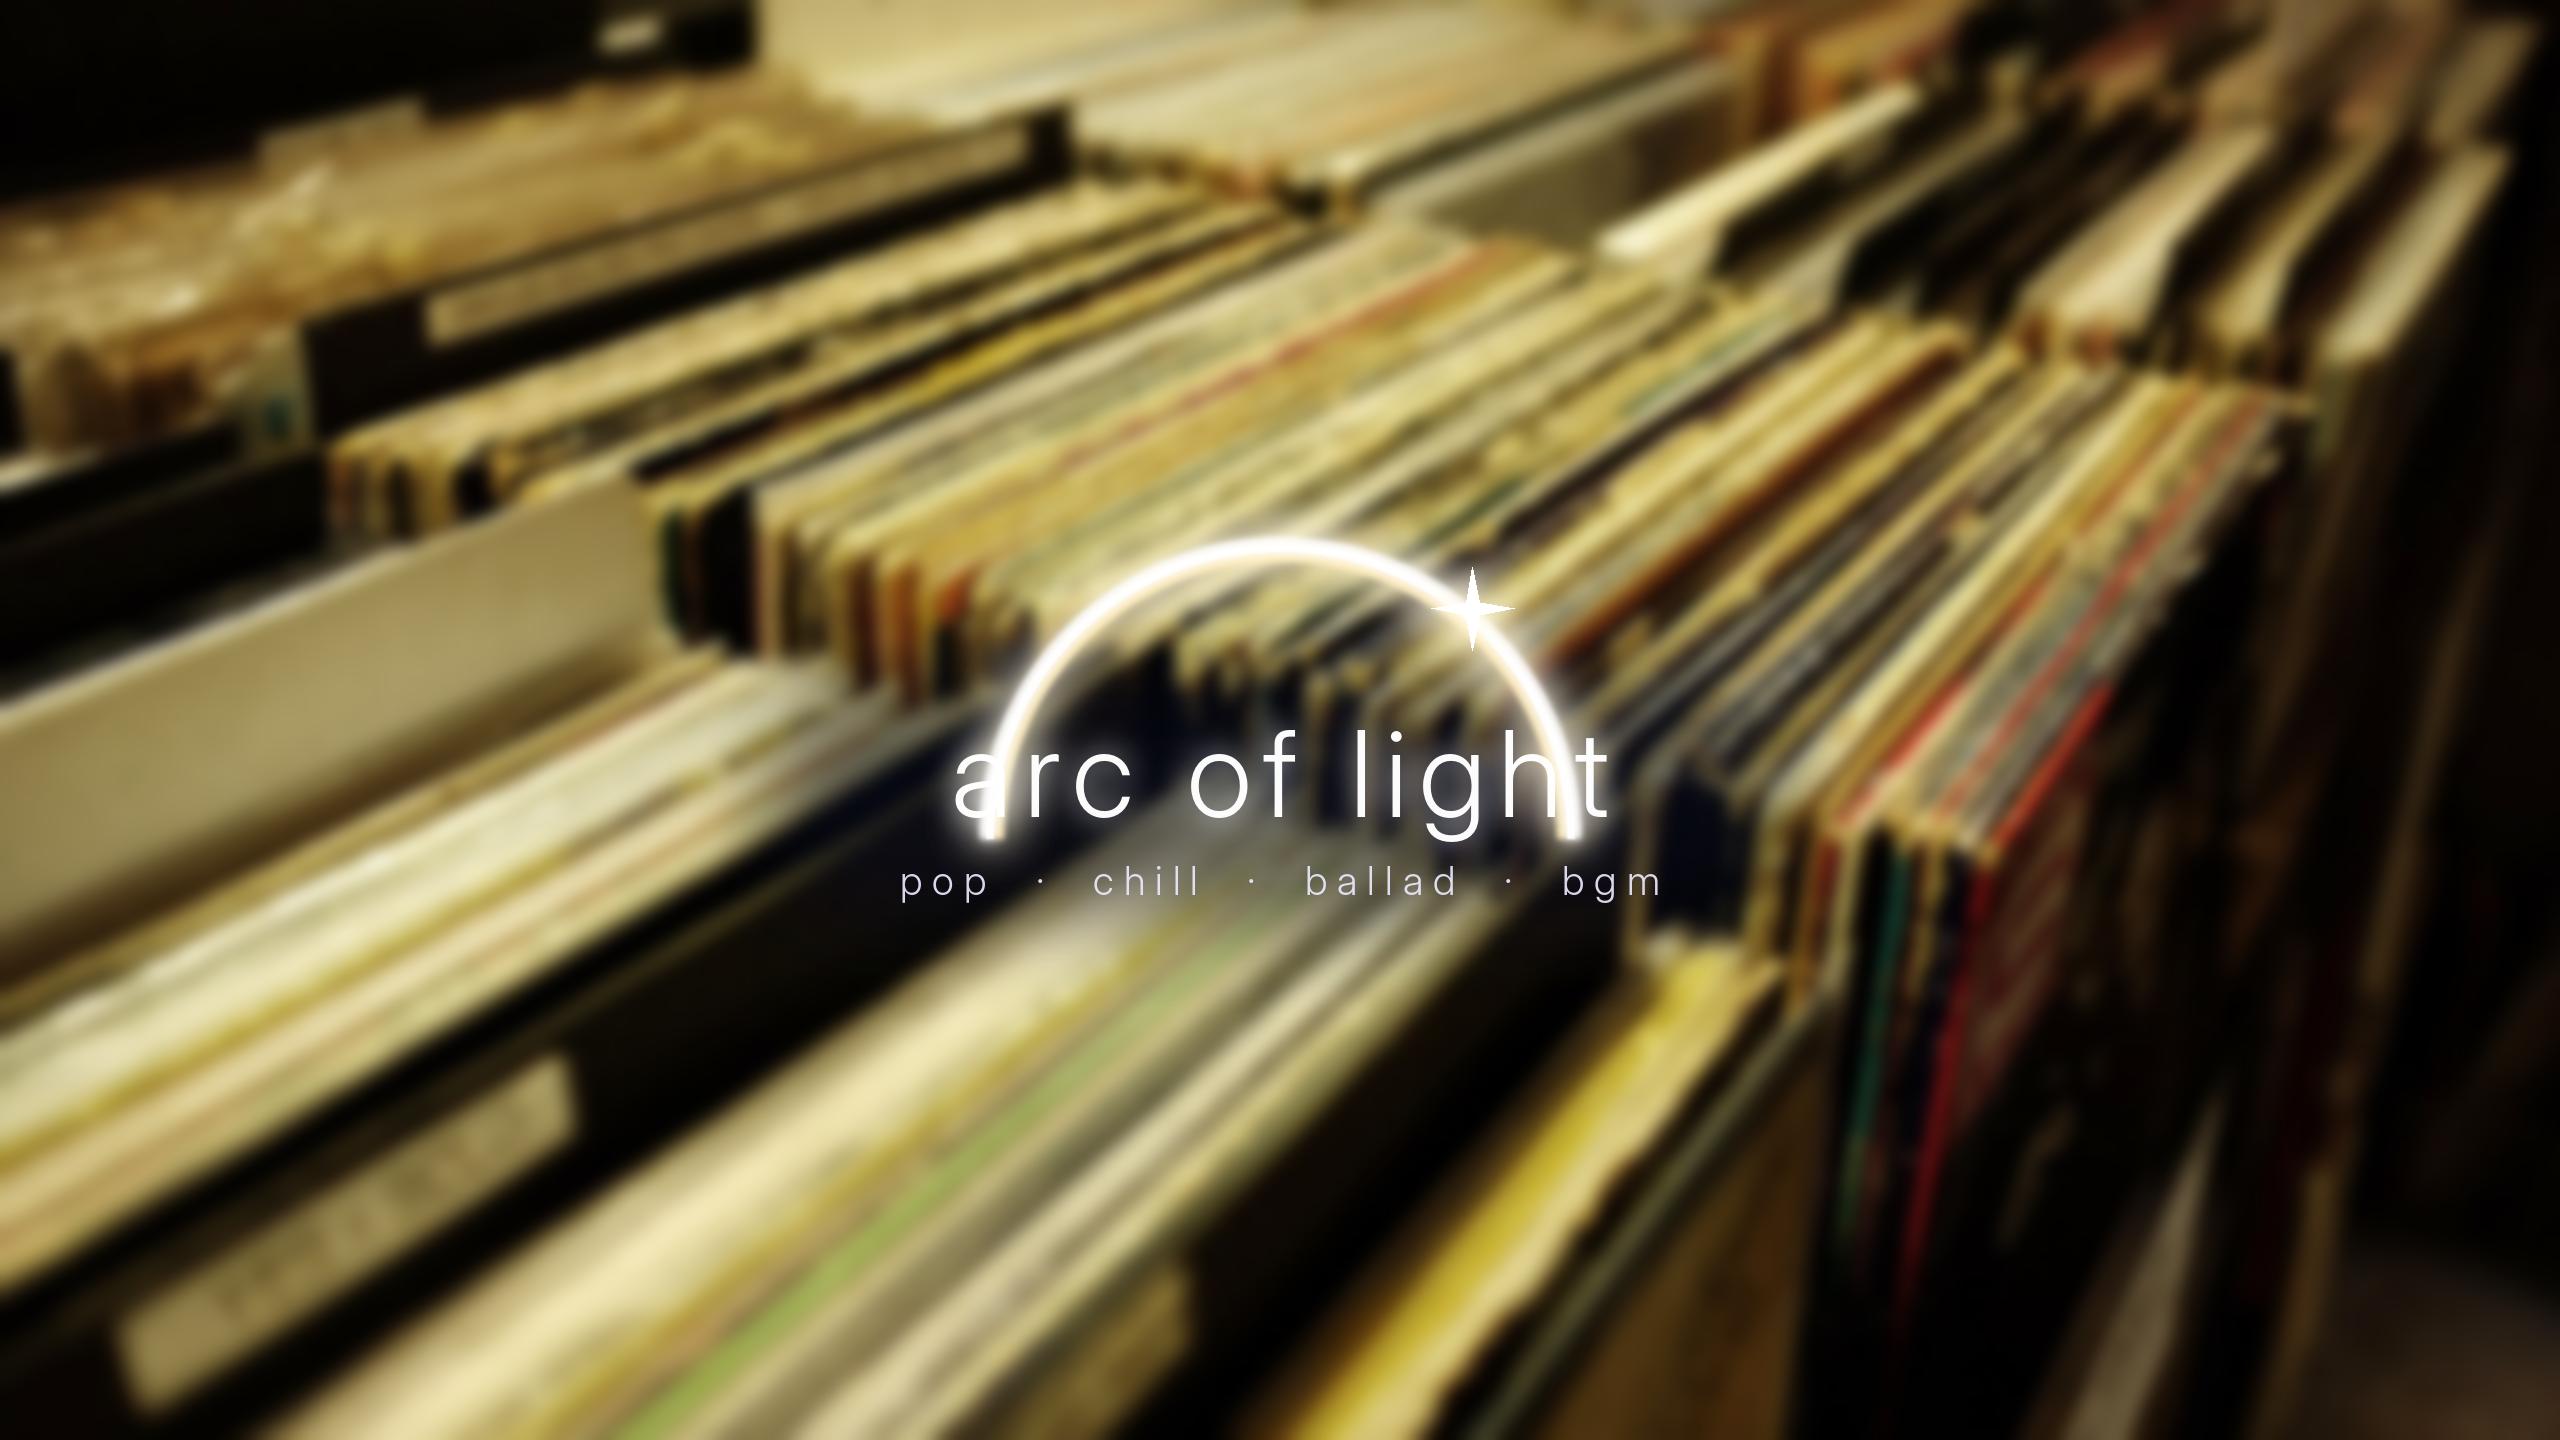
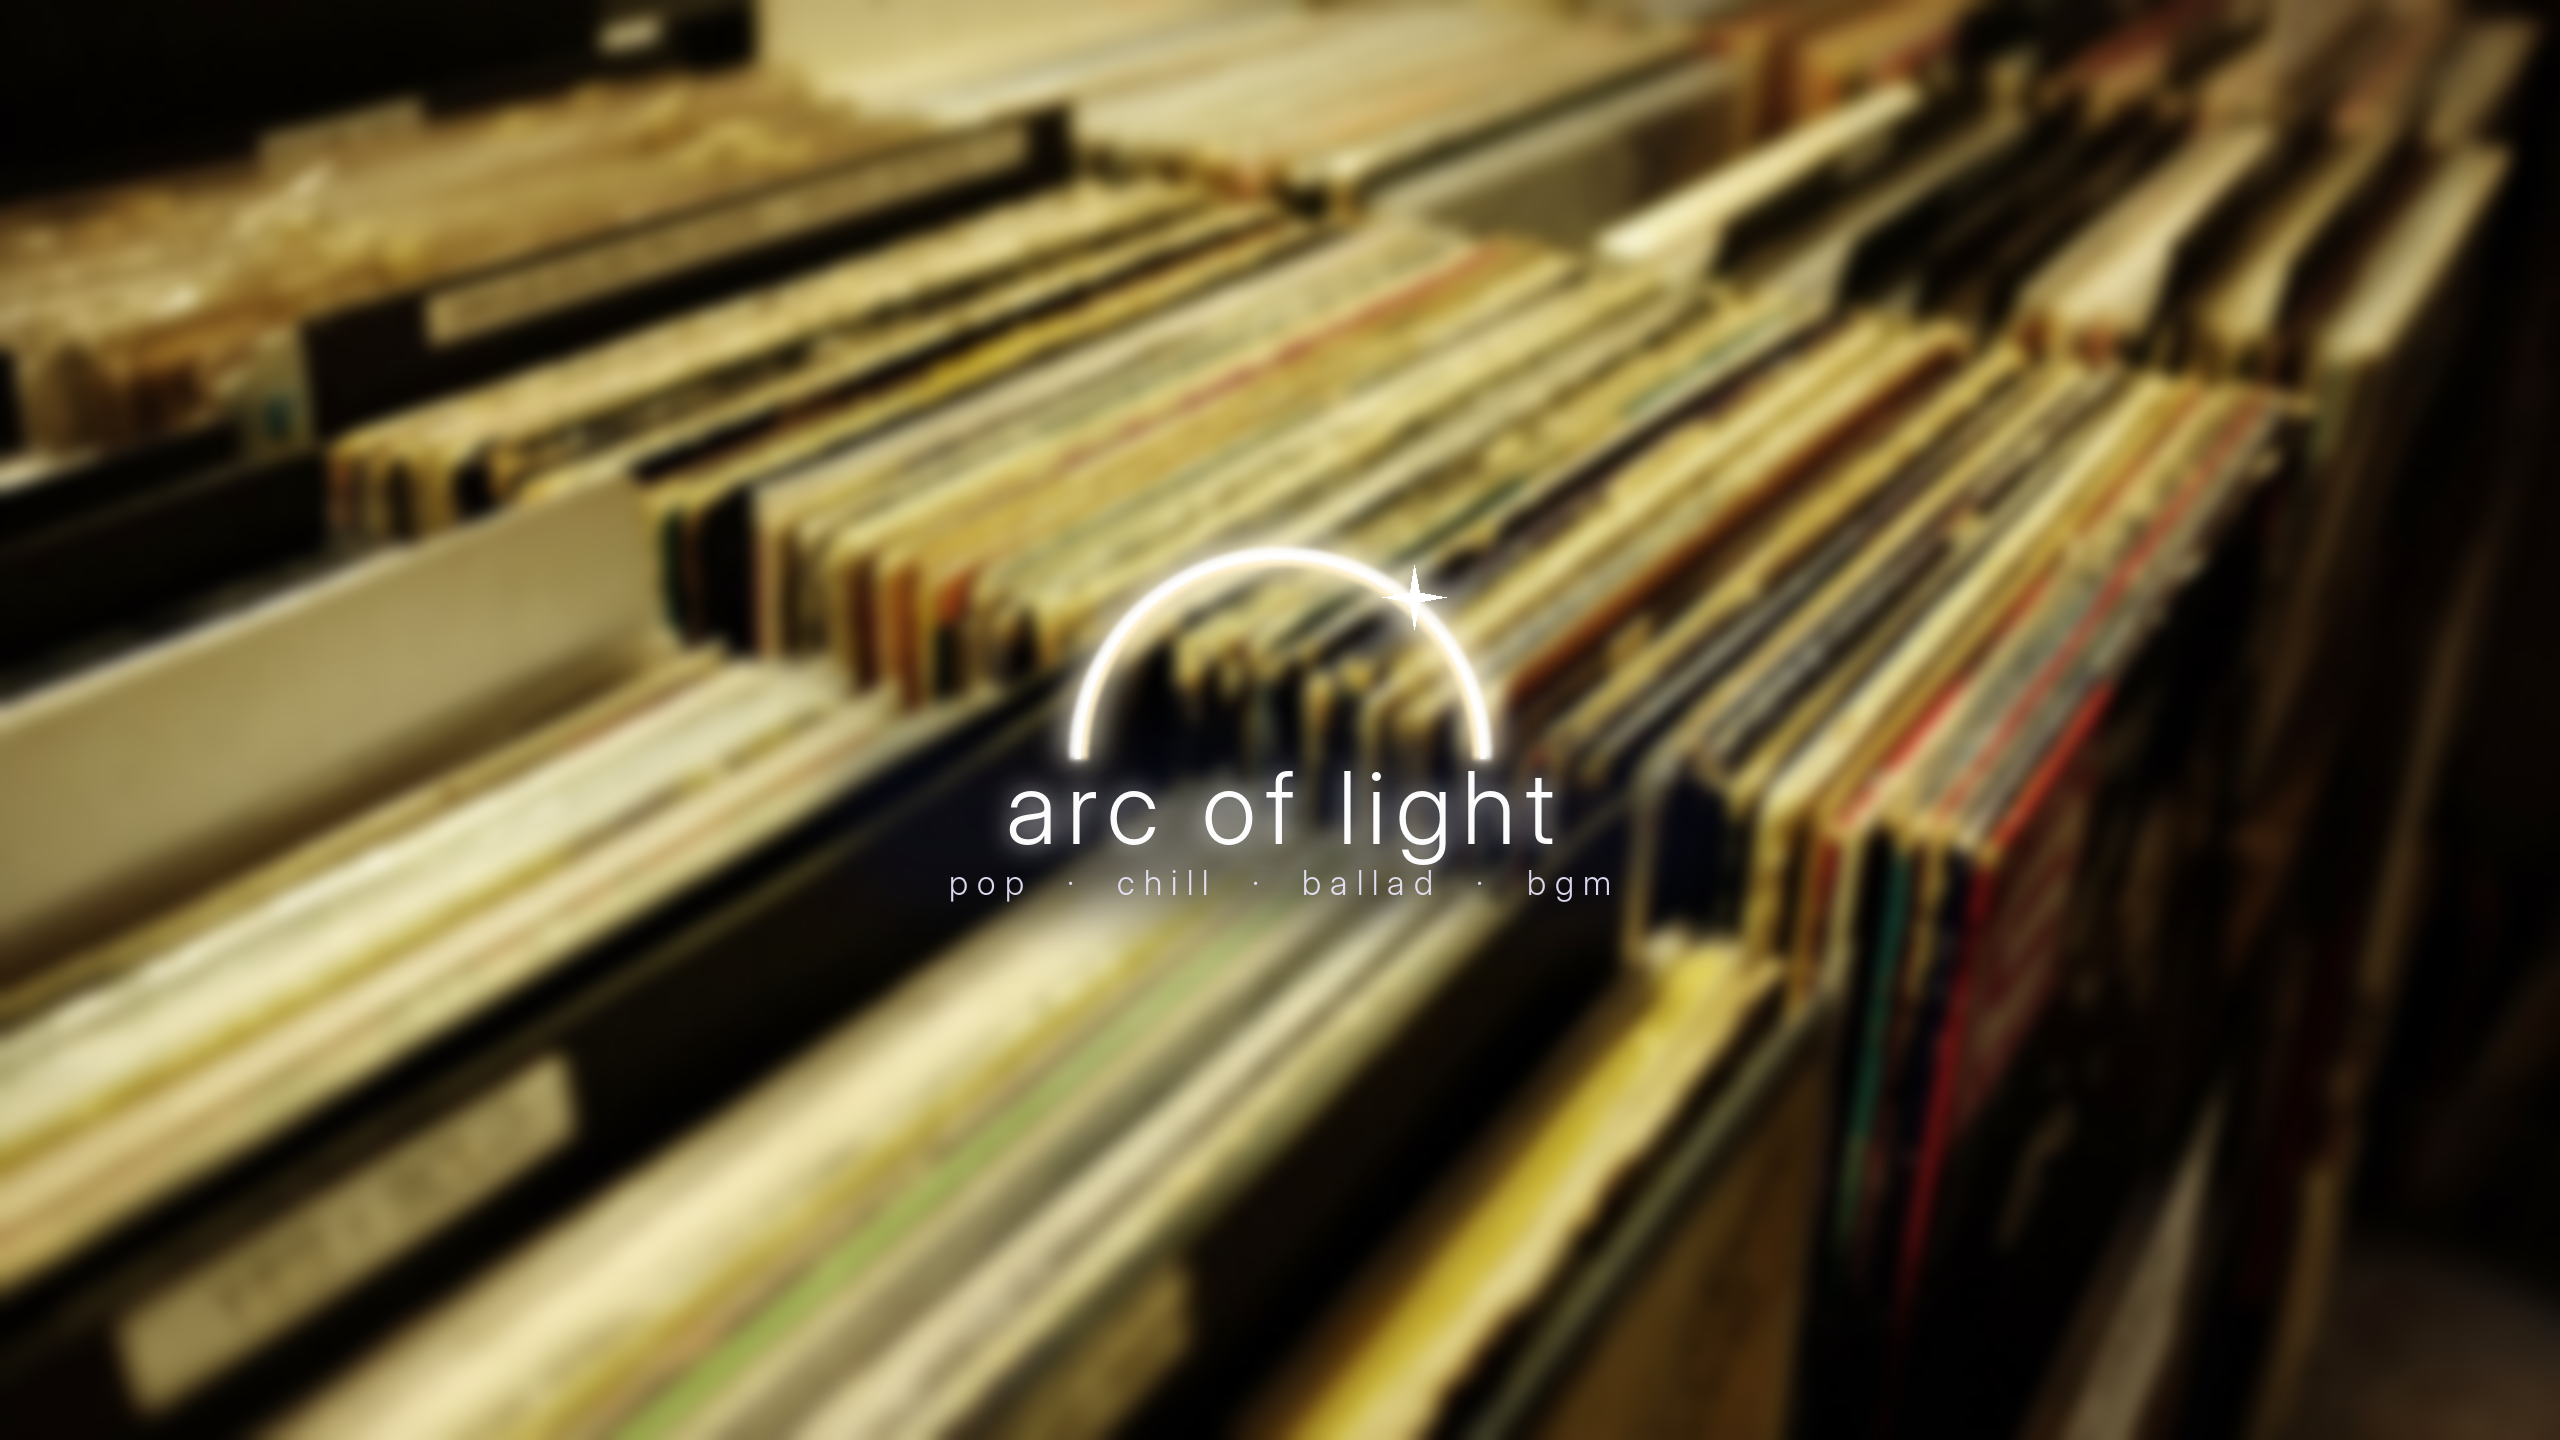
arc of light：写真版バナーの弧と文字を、全端末で見える範囲に余白つきで収める
Claude-Session: https://claude.ai/code/session_016yye45m5vLS41jvX7Nye7Y

Changed region(s): [[0.2812, 0.3438, 0.7188, 0.625]]

diff --git a/arc_of_light/make_brand_images.py b/arc_of_light/make_brand_images.py
@@ -288,14 +288,17 @@ def photo_version(name, photo, soften_icon, soften_banner, dark=True):
     w, h = 2560, 1440
     im = photo_bg(OUT / photo, w, h, bright=1.0 if dark else 1.08, soften=soften_banner)
     sx0, sy0 = (w - 1546) / 2, (h - 423) / 2
-    im.alpha_composite(veil_c((w, h), (sx0 + 260, sy0 + 175, sx0 + 1286, sy0 + 410), 150 if dark else 205))
-    im.alpha_composite(arc((w, h), w / 2, sy0 + 330, 300, 24, LIGHT_ARC))
-    im.alpha_composite(arc((w, h), w / 2, sy0 + 330, 294, 8, [(255, 255, 255)]))
-    flare(im, w / 2 + 300 * math.cos(math.radians(-50)), sy0 + 330 + 300 * math.sin(math.radians(-50)), 26)
-    text(im, "arc of light", ImageFont.truetype(FONT, 120), w / 2, sy0 + 265, 12, fill=ink, glow=dark)
-    text(im, "pop  ·  chill  ·  ballad  ·  bgm", ImageFont.truetype(FONT, 40), w / 2, sy0 + 372, 10, fill=sub, glow=False)
+    # 弧・文字・きらめきを、どの画面でも見える中央の枠（1546×423）の内側に余白を取って収める
+    im.alpha_composite(veil_c((w, h), (sx0 + 330, sy0 + 230, sx0 + 1216, sy0 + 400), 150 if dark else 205))
+    im.alpha_composite(arc((w, h), w / 2, sy0 + 250, 210, 18, LIGHT_ARC))
+    im.alpha_composite(arc((w, h), w / 2, sy0 + 250, 205, 6, [(255, 255, 255)]))
+    flare(im, w / 2 + 210 * math.cos(math.radians(-50)), sy0 + 250 + 210 * math.sin(math.radians(-50)), 20)
+    text(im, "arc of light", ImageFont.truetype(FONT, 100), w / 2, sy0 + 300, 10, fill=ink, glow=dark)
+    text(im, "pop  ·  chill  ·  ballad  ·  bgm", ImageFont.truetype(FONT, 34), w / 2, sy0 + 375, 9, fill=sub, glow=False)
     im.convert("RGB").save(OUT / f"banner_{name}_2560x1440.png")
-    im.convert("RGB").resize((1280, 720)).save(OUT / f"preview_{name}.jpg")
+    chk = im.copy()
+    ImageDraw.Draw(chk).rectangle([sx0, sy0, sx0 + 1546, sy0 + 423], outline=(80, 170, 255, 255), width=4)
+    chk.convert("RGB").resize((1280, 720)).save(OUT / f"preview_{name}.jpg")
 
 
 def photos_all():
